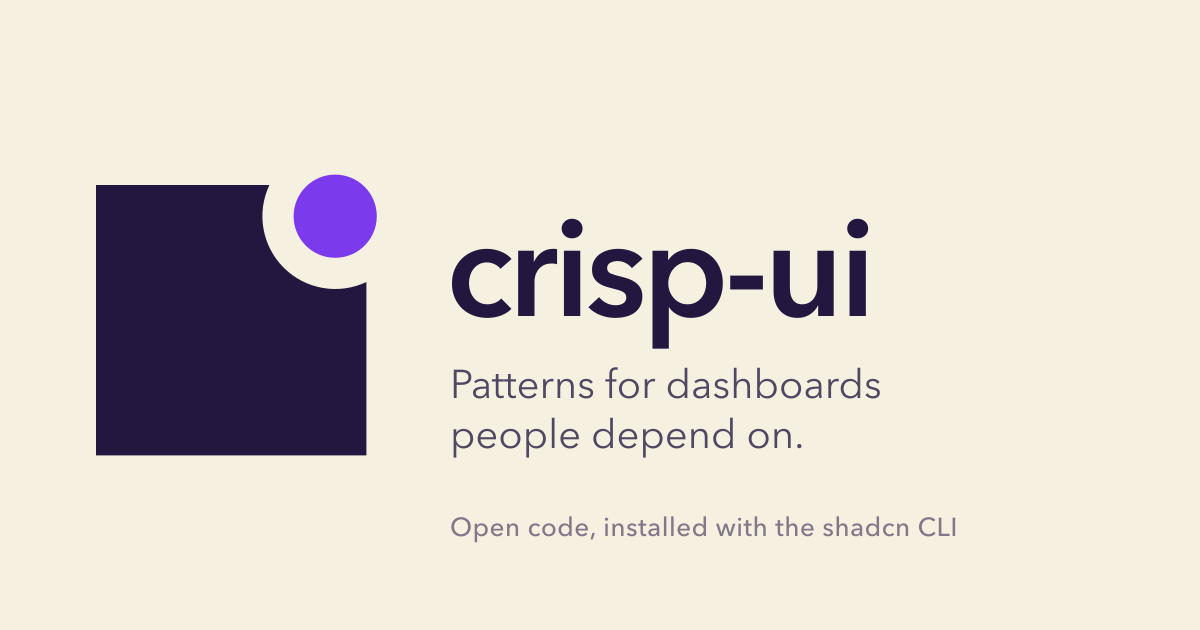
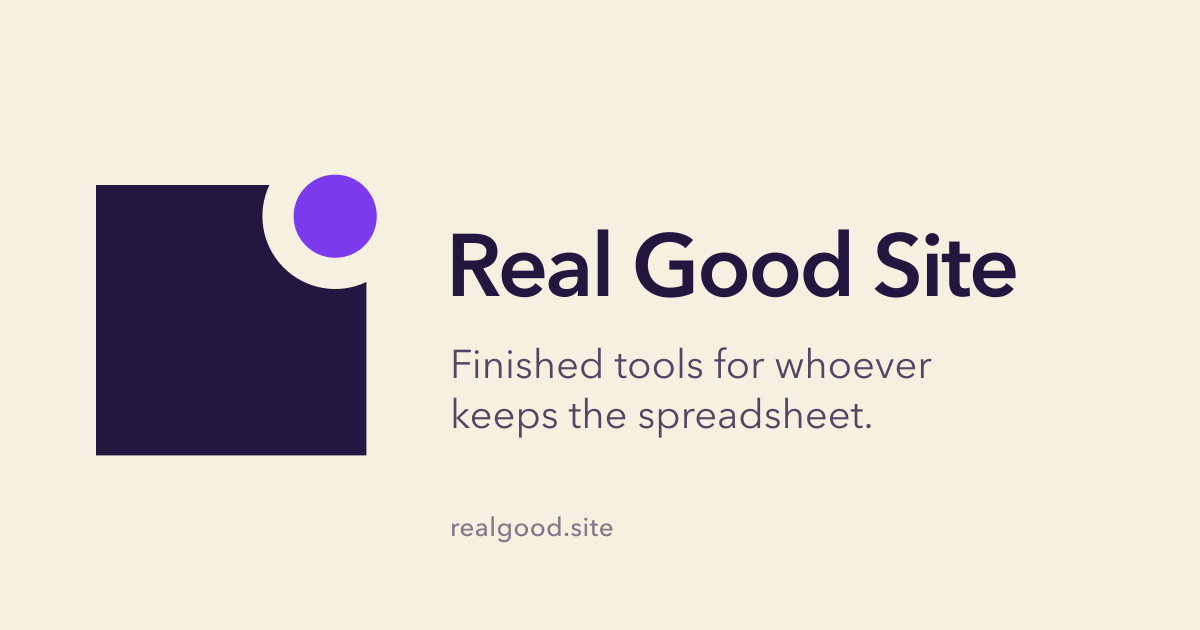
copy(brand): finish the Real Good Site rename in the manifest, docs intro, agent files and share card
The 2026-10-08 sweep found copy that still described the old shadcn
registry of dashboard patterns:

- site.webmanifest: name "Real Good Site", short_name "Real Good"
  (fits under a home-screen icon), new description.
- /docs intro: the description (meta, OG, JSON-LD, llms.txt entry) and
  first paragraph now present the building blocks of the tools.
- /llms.txt intro, SKILL.md, agents-snippet.md and the /docs/ai snippet
  (regenerated by agent:build): "makes finished tools for whoever keeps
  the spreadsheet", with the registry as its building blocks. The
  crisp-ui skill name and snippet markers are unchanged.
- brand/mark.svg title and og.png, the share card on every page, which
  still read "crisp-ui / Patterns for dashboards people depend on."
  Regenerated with build-brand; the favicons came out byte-identical.
- Metadata keywords follow the tools, not "dashboard".

No Pro, no prices, and no claim that the training tracker installs yet.

Changed region(s): [[0.37, 0.3317, 0.8633, 0.7238], [0.37, 0.8143, 0.8017, 0.8746]]

diff --git a/apps/v4/lib/llms.ts b/apps/v4/lib/llms.ts
@@ -98,7 +98,7 @@ export function buildLlmsTxt({
     "",
     `> ${oneLine(summary)}`,
     "",
-    `${name} is a small set of UI patterns for internal-tool dashboards, such as a status headline, who gets notified, confirm-then-send, and an unsaved-changes bar. It is a shadcn registry: the source is installed into your project and you own it. There is no package to depend on.`,
+    `${name} makes finished tools for whoever keeps the spreadsheet, such as a training tracker. These docs cover its building blocks, the UI parts those tools are made of, such as a status headline, who gets notified, confirm-then-send, and an unsaved-changes bar. They are a shadcn registry: the source is installed into your project and you own it. There is no package to depend on.`,
     "",
     "## For coding agents",
     "",

diff --git a/apps/v4/app/layout.tsx b/apps/v4/app/layout.tsx
@@ -32,12 +32,12 @@ export const metadata: Metadata = {
   metadataBase: new URL(siteUrl),
   description: siteConfig.description,
   keywords: [
-    "React",
-    "Tailwind CSS",
-    "dashboard",
-    "status",
-    "notifications",
-    "component registry",
+    "training tracker",
+    "training records",
+    "certificates",
+    "calibration",
+    "building blocks",
+    "shadcn",
   ],
   openGraph: {
     type: "website",

diff --git a/skills/crisp-ui/SKILL.md b/skills/crisp-ui/SKILL.md
@@ -1,6 +1,6 @@
 ---
 name: crisp-ui
-description: "Install and use Real Good Site, a shadcn registry of dashboard patterns for internal tools (status-strip, status-notify, table-view, data-table, calibration-desk, recipient-roster, alert-rules-lib, alert-rules, save-bar, confirm-send, approval, approval-step, notify-envelope, quiz-lib, quiz, audit-event, audit-timeline). Use when building an admin or internal-tool screen that shows how a job is going, lets a person choose who is notified and sends a message, or when the user mentions Real Good Site, realgood.site or crisp-ui. UI only: it does not provide a backend and does not make anything compliant."
+description: "Install and use the Real Good Site building blocks, the UI parts its finished tools are made of, published as a shadcn registry (status-strip, status-notify, table-view, data-table, calibration-desk, recipient-roster, alert-rules-lib, alert-rules, save-bar, confirm-send, approval, approval-step, notify-envelope, quiz-lib, quiz, audit-event, audit-timeline). Use when building an admin or internal-tool screen that shows how a job is going, lets a person choose who is notified and sends a message, or when the user mentions Real Good Site, realgood.site or crisp-ui. UI only: it does not provide a backend and does not make anything compliant."
 license: MIT
 ---
 
@@ -8,7 +8,7 @@ license: MIT
 
 # Real Good Site
 
-Real Good Site is a shadcn registry of dashboard patterns for internal tools. You install the source into the project with the stock `shadcn` CLI and then own it; there is no package to upgrade. It is UI only.
+Real Good Site makes finished tools for whoever keeps the spreadsheet. These are its building blocks, the UI parts those tools are made of, published as a shadcn registry. You install the source into the project with the stock `shadcn` CLI and then own it; there is no package to upgrade. It is UI only.
 
 ## Install
 

diff --git a/apps/v4/public/agents-snippet.md b/apps/v4/public/agents-snippet.md
@@ -2,7 +2,7 @@
 
 ## Real Good Site
 
-Real Good Site is a shadcn registry of dashboard patterns for internal tools. UI only. Index for agents: https://realgood.site/llms.txt
+Real Good Site makes finished tools for whoever keeps the spreadsheet. Its building blocks, the UI parts those tools are made of, are published as a shadcn registry. UI only. Index for agents: https://realgood.site/llms.txt
 
 Install: `npx shadcn@latest add https://realgood.site/r/<item>.json`, for example `npx shadcn@latest add https://realgood.site/r/status-notify.json`. Docs for an item: `https://realgood.site/docs/components/<item>.md`.
 
